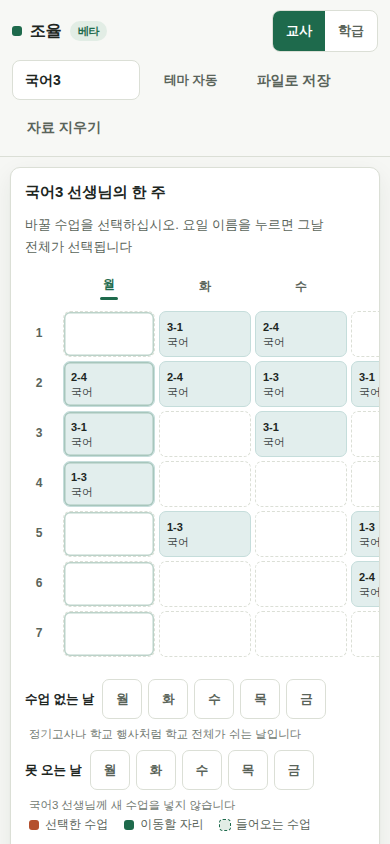
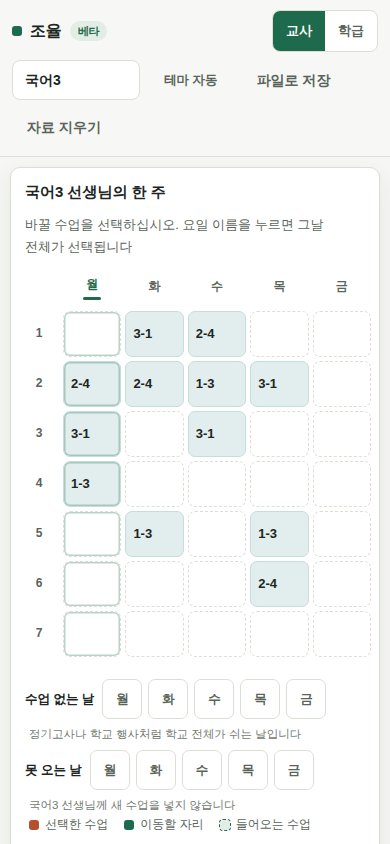
폰에서 주 전체가 한 화면에 들어오게 한다
앞선 커밋은 넘침을 격자 안으로 되돌린 것이라 격자를 옆으로 끄는 일이 그대로 남았다.
390px 에서 5일 가운데 3일만 보였다. 목요일과 금요일은 끌어야 나왔다.

그대로 둘 수 없는 이유를 재어 확인했다.

    표본            추천안 중 같은 날   1순위만
    실제 특성화고         41%           65%
    합성 12학급          49%           75%
    합성 24학급          42%           80%

추천안의 절반 넘게가 다른 요일로 넘어간다. 1순위도 세 번에 한 번은 넘어간다.
안 보이는 요일이 있으면 그 안들을 확인할 방법이 없다.

폭을 가르는 것은 칸에 무엇을 적는가였다. 요일당 쓸 수 있는 폭이 44~58px 인데
과목명은 실제 자료에서 중앙 6자에 최대 14자라 안 들어가고, 학급 이름은 "1-2" 처럼
최대 3자라 들어간다.

그래서 좁은 화면에서는 교사 화면의 칸에 학급만 적고 과목을 뺀다. 과목은 색으로 남고
고른 뒤에는 패널 머리에 이름이 그대로 나온다. aria-label 에는 둘 다 들어 있어
화면 낭독기가 읽는 내용은 줄지 않는다. 학급 화면은 과목이 본문이라 담당 교사를 빼고
과목을 줄바꿈해 다 보여 준다. 네 자까지 한 줄에 들어가게 글씨를 낮췄다.

칸의 최소 폭이 JS 에 박혀 있어 미디어 질의로 못 바꾸던 것을 CSS 변수로 옮겼다.

390, 360, 320 세 폭에서 5일이 다 보이고 잘린 글자가 없다. 768 이상은 그대로 과목명을
적는다. 데스크톱은 바뀐 것이 없다.

검사도 함께 고쳤다. "격자가 자기 칸에서 넘어가는지"를 "요일이 다 보이는지"와
"글자가 잘린 칸이 없는지"로 바꿨다. 앞의 것은 이제 통과해서는 안 되는 상태였다.

셋을 함께 재는 것이 중요하다. 요일을 다 넣으려고 글씨를 줄여 잘라 버리면 세 번째가
잡고, 잘리지 않게 하려고 격자를 넓히면 첫째가 잡는다.

diff --git a/apps/web/app/globals.css b/apps/web/app/globals.css
@@ -524,9 +524,36 @@ button.cell.empty:hover { border-color: var(--muted); }
   .tt-head.day-btn { min-height: 40px; }
   .work { padding: 10px 10px 20px; gap: 12px; }
   .grid-scroll { padding: 10px 8px 12px; }
-  .tt-grid { min-width: 500px; }
+  /*
+   * 폰에서 주 전체를 한 화면에 넣는다.
+   *
+   * 옆으로 끌어 보게 두었더니 5일 가운데 3일만 보였다. 추천안의 절반 넘게가 다른 요일로
+   * 넘어가고 1순위도 세 번에 한 번은 넘어가므로(실측), 안 보이는 요일이 있으면
+   * 그 안들을 확인할 방법이 없다.
+   *
+   * 폭을 맞추는 값은 칸에 무엇을 적는가다. 실제 자료에서 과목명은 중앙 6자에 최대 14자라
+   * 요일당 62px 에 안 들어간다. 학급 이름은 "1-2" 처럼 최대 3자라 들어간다.
+   * 그래서 좁은 화면에서는 교사 화면의 칸에 학급만 적고 과목은 뺀다.
+   * 과목은 색으로 남고, 고른 뒤에는 오른쪽 패널 머리에 이름이 그대로 나온다.
+   * aria-label 에는 둘 다 들어 있어 화면 낭독기는 그대로 읽는다.
+   */
+  .tt-grid { min-width: 0; --col-min: 0; }
   .cell { min-height: 46px; padding: 5px 7px; }
   .cell .k, .cell .s { font-size: 11px; }
+  /* 교사 화면: 학급만 남긴다. 글씨를 키워 가운데 놓는다 */
+  .tt-grid.by-teacher .cell.lesson .s { display: none; }
+  .tt-grid.by-teacher .cell.lesson .k { font-size: 13px; font-weight: 800; }
+  /* 학급 화면: 과목이 본문이다. 담당 교사를 빼고 과목을 줄바꿈해 다 보여 준다 */
+  .tt-grid.by-klass .cell.lesson .s { display: none; }
+  /*
+   * 과목명은 자르지 않고 줄을 바꾼다. 네 자까지는 한 줄에 들어가도록 글씨를 낮춘다.
+   * "기술가정" 이 "기술가 / 정" 으로 갈리는 것을 막는 값이다.
+   * 실제 자료의 최대는 14자라 그런 과목은 세 줄이 되지만, 잘리는 것보다 낫다.
+   */
+  .tt-grid.by-klass .cell.lesson .k {
+    white-space: normal; word-break: keep-all; line-height: 1.2; font-size: 10px;
+  }
+  .tt-grid.by-klass .cell { min-height: 54px; }
   .card-head { padding: 12px 14px 0; flex-wrap: wrap; }
   .cand-foot { flex-wrap: wrap; }
   .cand-score { margin-left: 0; width: 100%; }

diff --git a/apps/web/components/Grid.tsx b/apps/web/components/Grid.tsx
@@ -81,7 +81,15 @@ export function Grid({
       )
     : undefined;
 
-  const cols = `40px repeat(${cfg.days}, minmax(92px, 1fr))`;
+  /*
+   * 한 칸의 최소 폭을 CSS 에 맡긴다.
+   *
+   * 92px 을 여기 박아 두면 폰에서 5일이 368px 에 안 들어가 격자를 옆으로 끌어야 했다.
+   * 추천안의 절반 넘게가 다른 요일로 넘어가므로(실측 41~49%가 같은 날, 1순위도 65~80%),
+   * 다른 요일이 안 보이면 그 안들을 볼 방법이 없어진다. 주 전체가 한눈에 들어와야 한다.
+   * 좁은 화면에서는 --col-min 을 0 으로 두어 남은 폭을 요일끼리 나눈다.
+   */
+  const cols = `40px repeat(${cfg.days}, minmax(var(--col-min, 92px), 1fr))`;
 
   return (
     <section className="card grid-wrap" aria-label="주간 시간표">
@@ -98,7 +106,11 @@ export function Grid({
         </span>
       </div>
       <div className="grid-scroll">
-        <div className="tt-grid" style={{ gridTemplateColumns: cols }}>
+        {/* 좁은 화면에서 칸에 무엇을 적을지가 보기에 따라 갈린다. CSS 가 알아야 한다 */}
+        <div
+          className={`tt-grid ${teacherMode ? 'by-teacher' : 'by-klass'}`}
+          style={{ gridTemplateColumns: cols }}
+        >
           <div className="tt-head corner" aria-hidden />
           {cfg.dayNames.map((d, di) => {
             const why = closedDay.get(di);

diff --git a/04-operations.md b/04-operations.md
@@ -91,28 +91,56 @@ CSP 는 설정만 보고는 앱이 도는지 알 수 없다. 그래서 `scripts/
 
 ### 폰에서 깨지는 것은 소스로 안 잡힌다
 
-가로로 밀리는 문제를 눈으로만 지키다 놓쳤다. 격자를 감싼 칸이 세로로 쌓일 때 내용 크기로
-줄어들어 390px 화면에서 문서 폭이 548px 이 되었다. 격자만 넘겨 보면 되는데 머리글과
-카드와 바닥글까지 함께 밀려서, 금요일을 보려면 화면 전체를 옆으로 끌어야 했다.
+두 번 고쳤고 두 번 다 화면을 띄워 보고 나서야 드러났다.
 
-CSS 를 읽어서는 안 보인다. `overflow-x: auto` 가 격자 칸에 제대로 걸려 있었고,
-`min-width: 0` 도 있었다. 세로로 쌓을 때 `align-items: flex-start` 의 뜻이 달라지는 것이
-원인이라 두 줄을 따로 보면 둘 다 맞다.
+**1차. 화면 전체가 옆으로 밀렸다.** 격자를 감싼 칸이 세로로 쌓일 때 내용 크기로 줄어들어
+390px 화면에서 문서 폭이 548px 이 되었다. 격자만 넘겨 보면 되는데 머리글과 카드와
+바닥글까지 함께 밀려서, 금요일을 보려면 화면 전체를 옆으로 끌어야 했다.
 
-그래서 `npm run smoke` 에 폭 390, 360, 320 세 가지로 두 가지를 잰다.
+CSS 를 읽어서는 안 보인다. `overflow-x: auto` 도 `min-width: 0` 도 제자리에 있었다.
+세로로 쌓을 때 `align-items: flex-start` 의 뜻이 달라지는 것이 원인이라, 두 줄을 따로
+보면 둘 다 맞다.
+
+**2차. 고쳤는데도 5일 가운데 3일만 보였다.** 1차 수정은 넘침을 격자 안으로 되돌린 것이라
+격자를 옆으로 끄는 일은 그대로 남았다. 이것을 그대로 둘 수 없는 이유를 재어 확인했다.
+
+| 표본 | 추천안 중 같은 날 | 1순위만 |
+|---|---|---|
+| 실제 특성화고 | 41% | 65% |
+| 합성 12학급 | 49% | 75% |
+| 합성 24학급 | 42% | 80% |
+
+**추천안의 절반 넘게가 다른 요일로 넘어간다.** 1순위도 세 번에 한 번은 넘어간다.
+안 보이는 요일이 있으면 그 안들을 확인할 방법이 없다.
+
+폭을 가르는 것은 칸에 무엇을 적는가였다. 요일당 쓸 수 있는 폭이 44~58px 인데,
+
+| 칸에 적는 것 | 실제 자료의 길이 | 들어가나 |
+|---|---|---|
+| 과목명 | 중앙 6자, 최대 14자 | 아니오 |
+| 학급 이름 | 최대 3자 (`1-2`) | 예 |
+
+그래서 좁은 화면에서는 교사 화면의 칸에 학급만 적고 과목을 뺀다. 과목은 색으로 남고,
+고른 뒤에는 패널 머리에 이름이 그대로 나온다. `aria-label` 에는 둘 다 들어 있어
+화면 낭독기가 읽는 내용은 줄지 않는다. 학급 화면은 과목이 본문이라 담당 교사를 빼고
+과목을 줄바꿈해 다 보여 준다.
+
+### 그래서 무엇을 재는가
+
+`npm run smoke` 가 폭 390, 360, 320 마다 세 가지를 잰다.
 
 | 재는 것 | 통과 기준 |
 |---|---|
 | 문서 폭 | 화면 폭과 같다. 크면 화면 전체가 밀린다 |
-| 격자 칸 | 자기 안에서 넘어간다. 안 넘어가면 넘침이 밖으로 샌 것이다 |
-| 누르는 것의 높이 | 36px 이상 |
+| 보이는 요일 | 전부. 하나라도 모자라면 그 요일로 가는 안을 볼 수 없다 |
+| 잘린 글자 | 없다 |
 
-두 번째를 함께 재는 것이 중요하다. 첫 번째만 보면 격자를 아예 못 넘기게 만들어도 통과한다.
-그러면 금요일을 볼 방법이 없어진다.
+셋을 함께 재는 것이 중요하다. 하나만 보면 고치다 다른 것을 깬다. 요일을 다 넣으려고
+글씨를 줄여 잘라 버리면 세 번째가 잡고, 잘리지 않게 하려고 격자를 넓히면 첫째가 잡는다.
 
-고친 뒤 되돌려서 검사가 실제로 잡는지 확인했다. 문서 548px 과 "격자 자기 칸에서 넘김
-아니오" 가 함께 떴다. 누르기 검사는 넣자마자 갈래 고르기 단추 4개를 잡아냈다.
-추천이 뜬 뒤에만 나오는 단추라 눈으로 보던 때는 지나쳤던 자리다.
+되돌려서 검사가 실제로 잡는지 확인했다. 문서 548px 이 그대로 떴다. 누르기 검사는
+넣자마자 갈래 고르기 단추 4개를 잡아냈다. 추천이 뜬 뒤에만 나오는 단추라 눈으로 보던
+때는 지나쳤던 자리다.
 
 ### 정적 내보내기 사고를 다시 내지 않으려고
 
